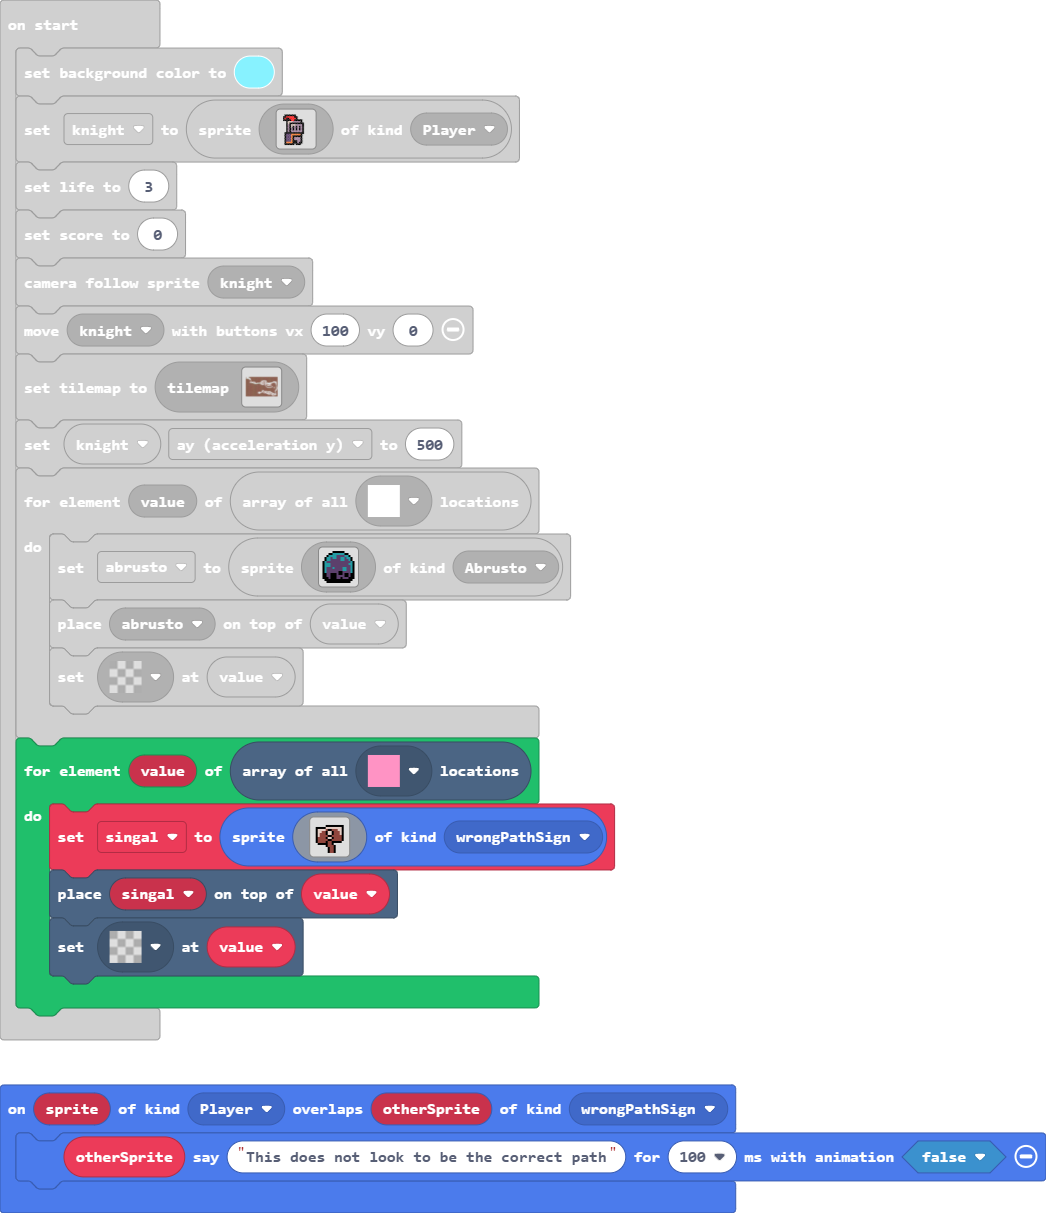
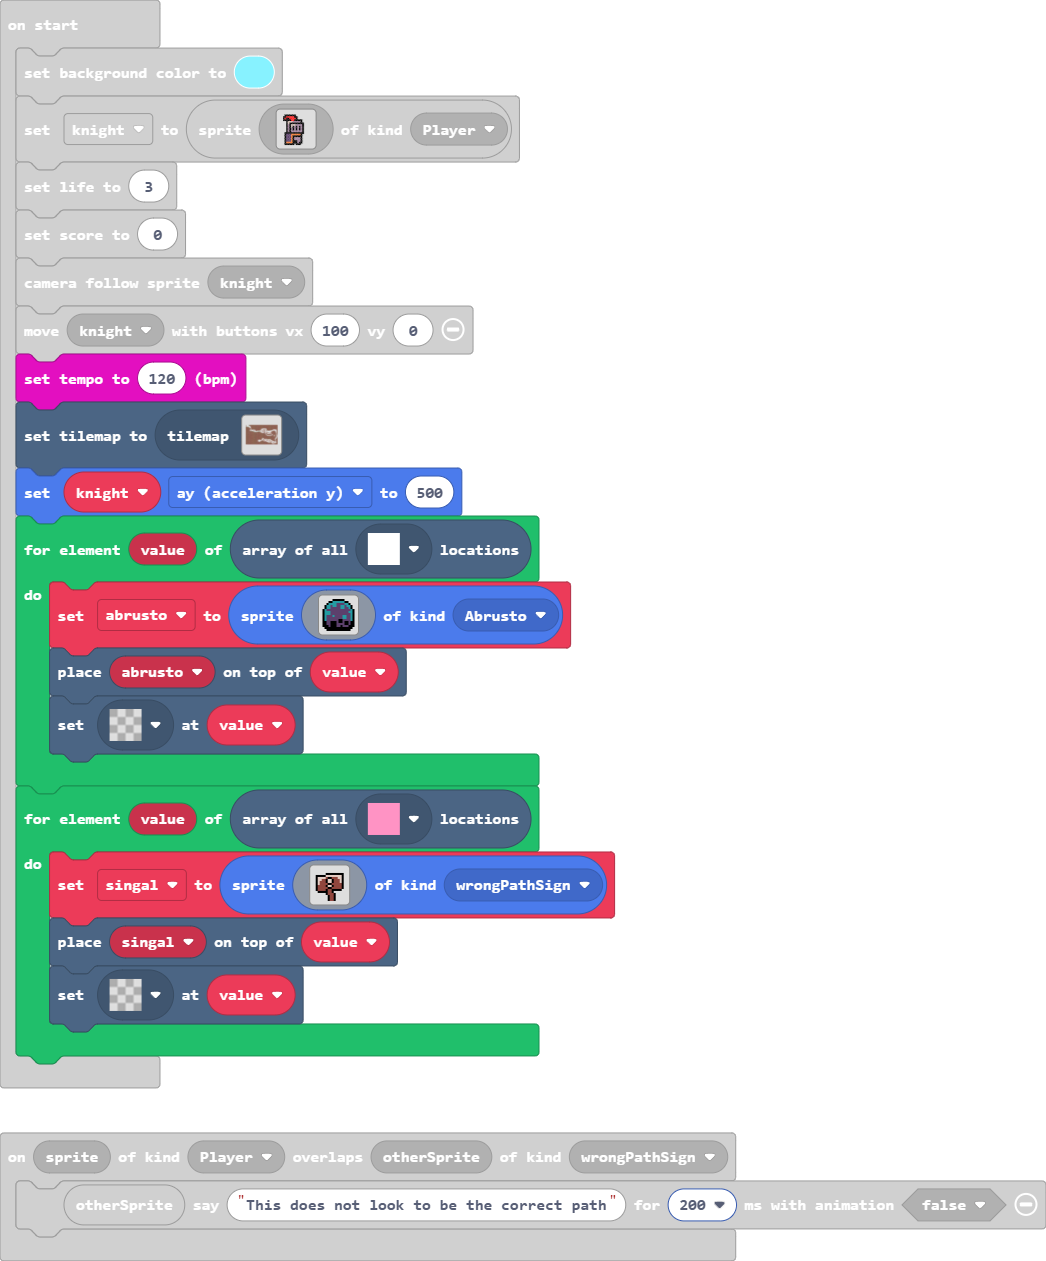
Update pxt.json, main.blocks, main.ts

Changed region(s): [[0.0, 0.0305, 1.0, 1.0]]

diff --git a/main.ts b/main.ts
@@ -59,7 +59,7 @@ sprites.onOverlap(SpriteKind.Player, SpriteKind.Abrusto, function (sprite, other
     bat.follow(knight, 70)
 })
 sprites.onOverlap(SpriteKind.Player, SpriteKind.wrongPathSign, function (sprite, otherSprite) {
-    otherSprite.sayText("This does not look to be the correct path", 100, false)
+    otherSprite.sayText("This does not look to be the correct path", 200, false)
 })
 let bat: Sprite = null
 let jump_count = 0
@@ -72,6 +72,7 @@ info.setLife(3)
 info.setScore(0)
 scene.cameraFollowSprite(knight)
 controller.moveSprite(knight, 100, 0)
+music.setTempo(120)
 tiles.setCurrentTilemap(tilemap`level0`)
 knight.ay = 500
 for (let value of tiles.getTilesByType(assets.tile`myTile2`)) {
